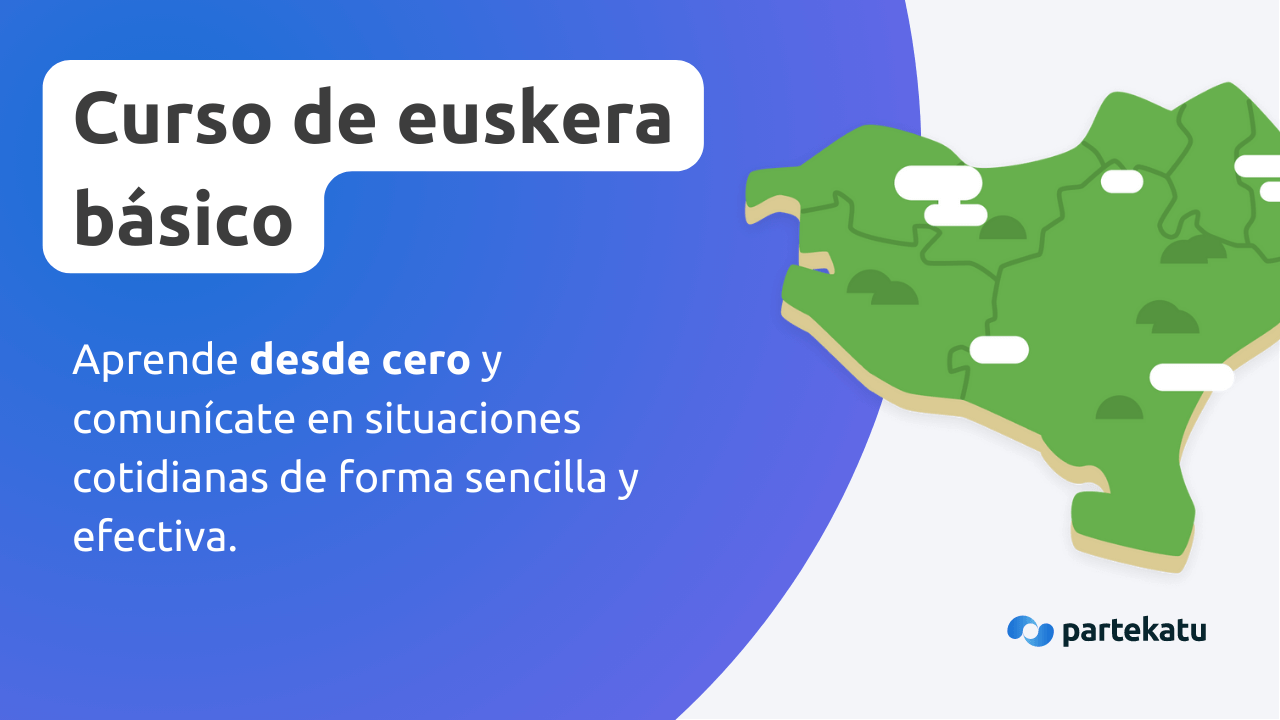
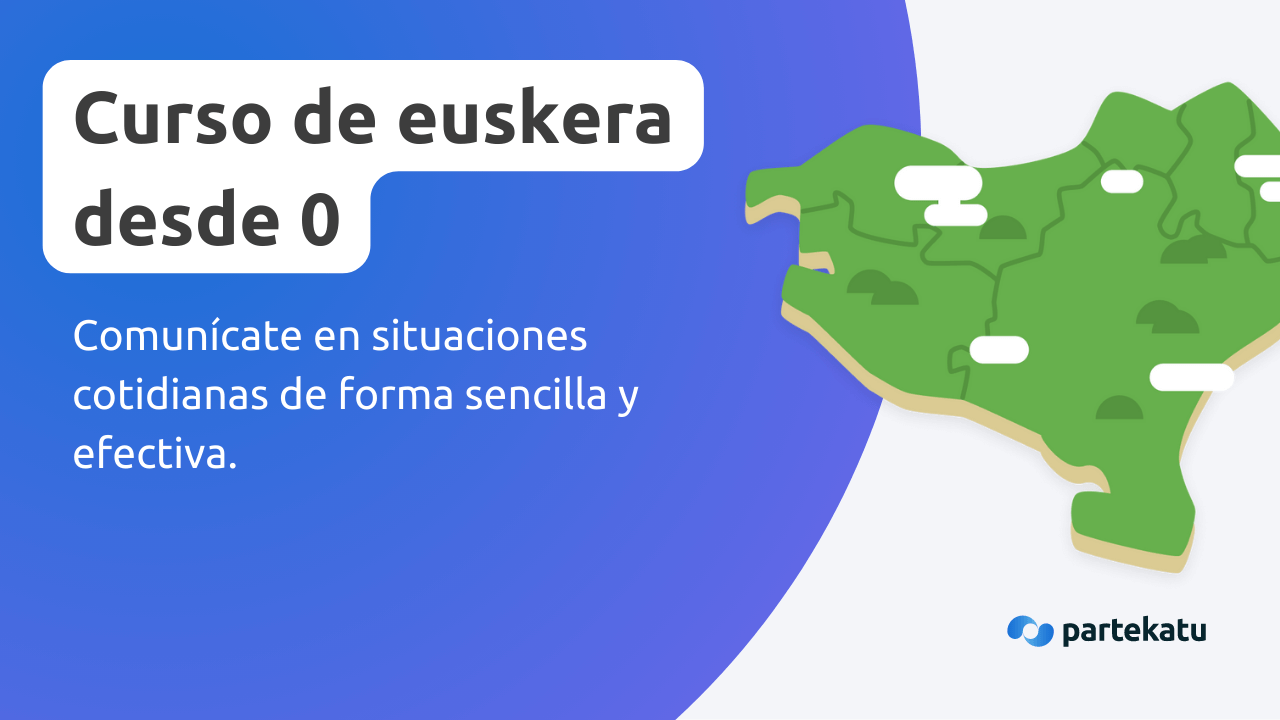
Change thumbnail and some texts

Changed region(s): [[0.0625, 0.4278, 0.5, 0.7028], [0.0625, 0.2139, 0.3125, 0.3972], [0.0312, 0.7333, 0.1875, 0.7639]]

diff --git a/components/CourseLandingPage/HeroHeaderSection.tsx b/components/CourseLandingPage/HeroHeaderSection.tsx
@@ -16,7 +16,7 @@ const HeroHeaderSection: React.FC<Props> = ({ onCTAClick }) => {
               <span>Comunícate en euskera con total seguridad</span>
             </div>
             <p>
-              Aprende euskera <b>desde cero</b> y comunícate en situaciones
+              Aprende euskera <b>desde cero</b> y utilízalo en situaciones
               cotidianas de forma sencilla y efectiva.
             </p>
             <div

diff --git a/components/CoursePopup/FixedCoursePopupForm.tsx b/components/CoursePopup/FixedCoursePopupForm.tsx
@@ -55,7 +55,7 @@ const FixedCoursePopup: React.FC<Props> = ({}) => {
           }}
         >
           <p>
-            ¡Oye! ¿Sabías que en nuestra web tenemos un euskera básico para
+            ¡Oye! ¿Sabías que en nuestra web tenemos un curso de euskera para
             principiantes? Está formado por vídeos, infografías y ejercicios
             para que aprendas euskera.
           </p>

diff --git a/components/CourseLandingPage/styles.module.css b/components/CourseLandingPage/styles.module.css
@@ -359,13 +359,14 @@
 
 .buy-price-footer {
   position: sticky;
-  bottom: 0;
+  bottom: -200px;
   opacity: 0;
-  transition: opacity .15s ease-in-out;
+  transition: opacity .15s ease-in-out, bottom .3s ease-in-out;
 }
 
 .buy-price-footer--show {
   opacity: 1;
+  bottom: 0;
 }
 
 .buy-price-footer__container {

diff --git a/components/CourseForm/CardCourseForm/BaseCourseForm.tsx b/components/CourseForm/CardCourseForm/BaseCourseForm.tsx
@@ -31,7 +31,7 @@ const BaseCourseForm: React.FC<Props> = ({
             fontWeight: "bold",
           }}
         >
-          📖 ¡Estamos preparando un nuevo curso de euskera básico!
+          📖 ¡Estamos preparando un nuevo curso de euskera!
         </span>
         <div
           style={{
